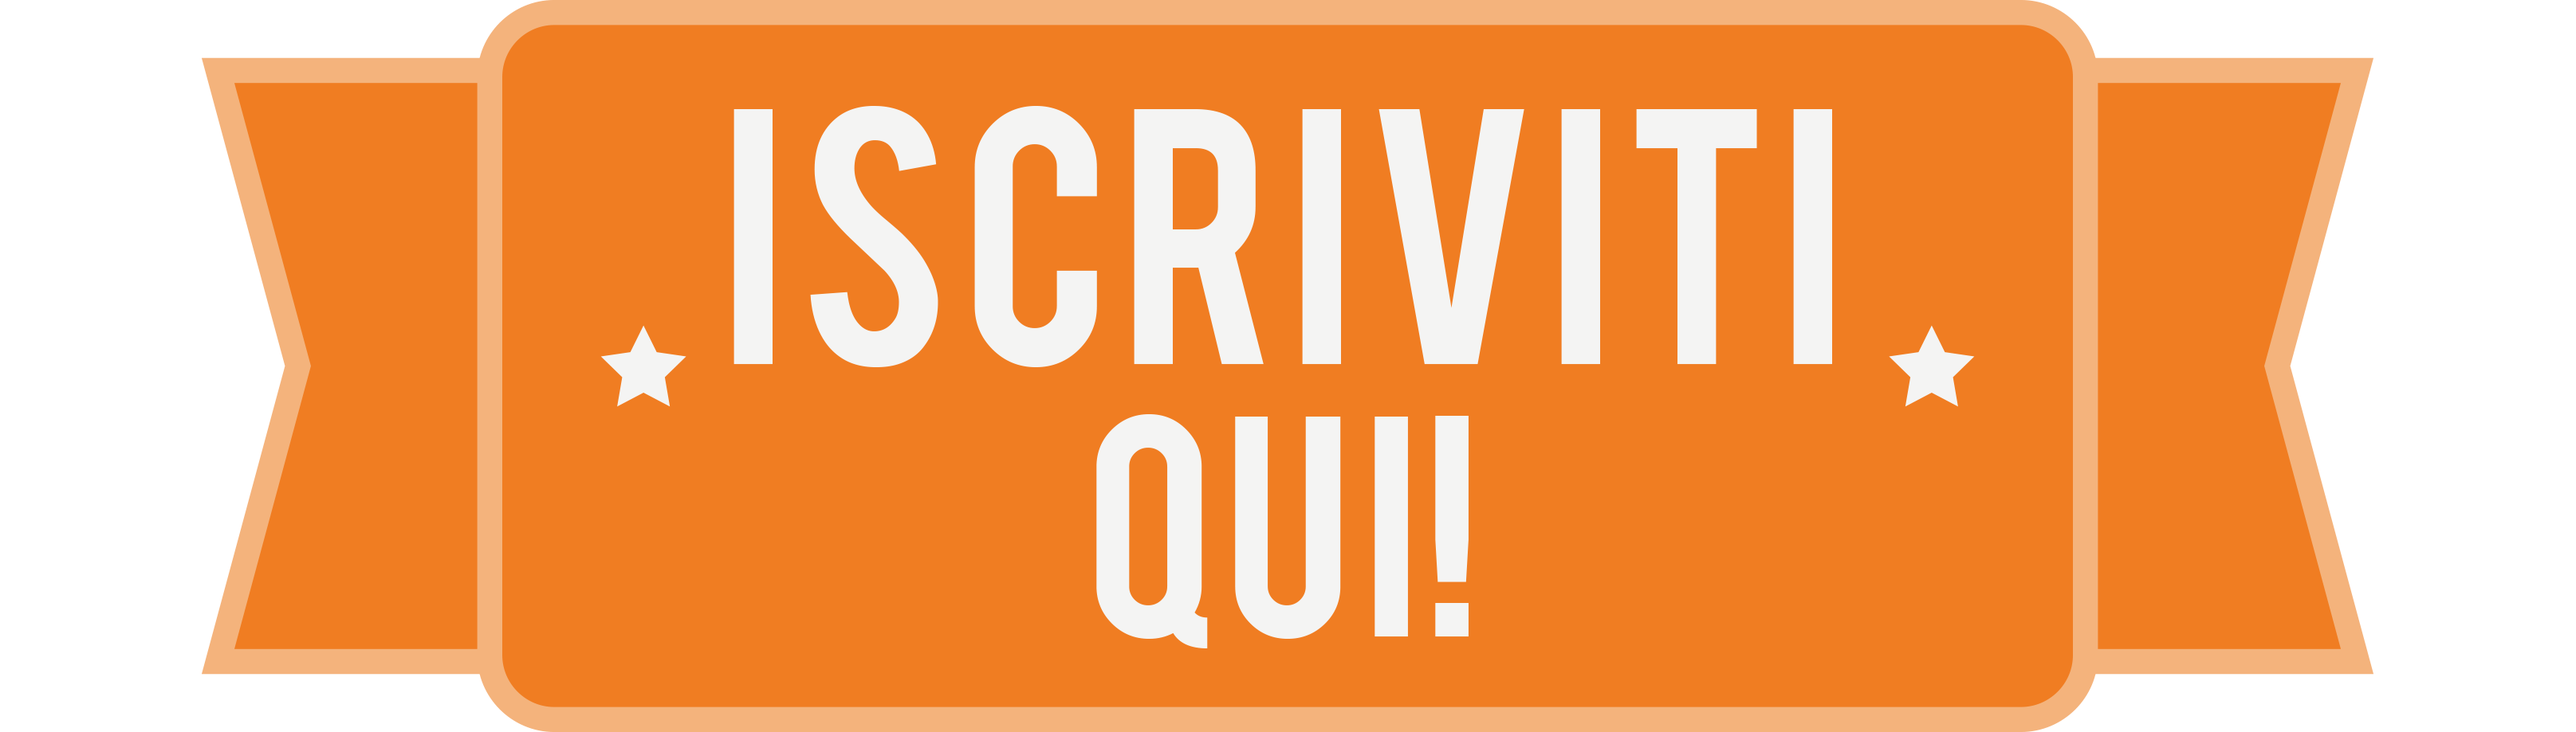
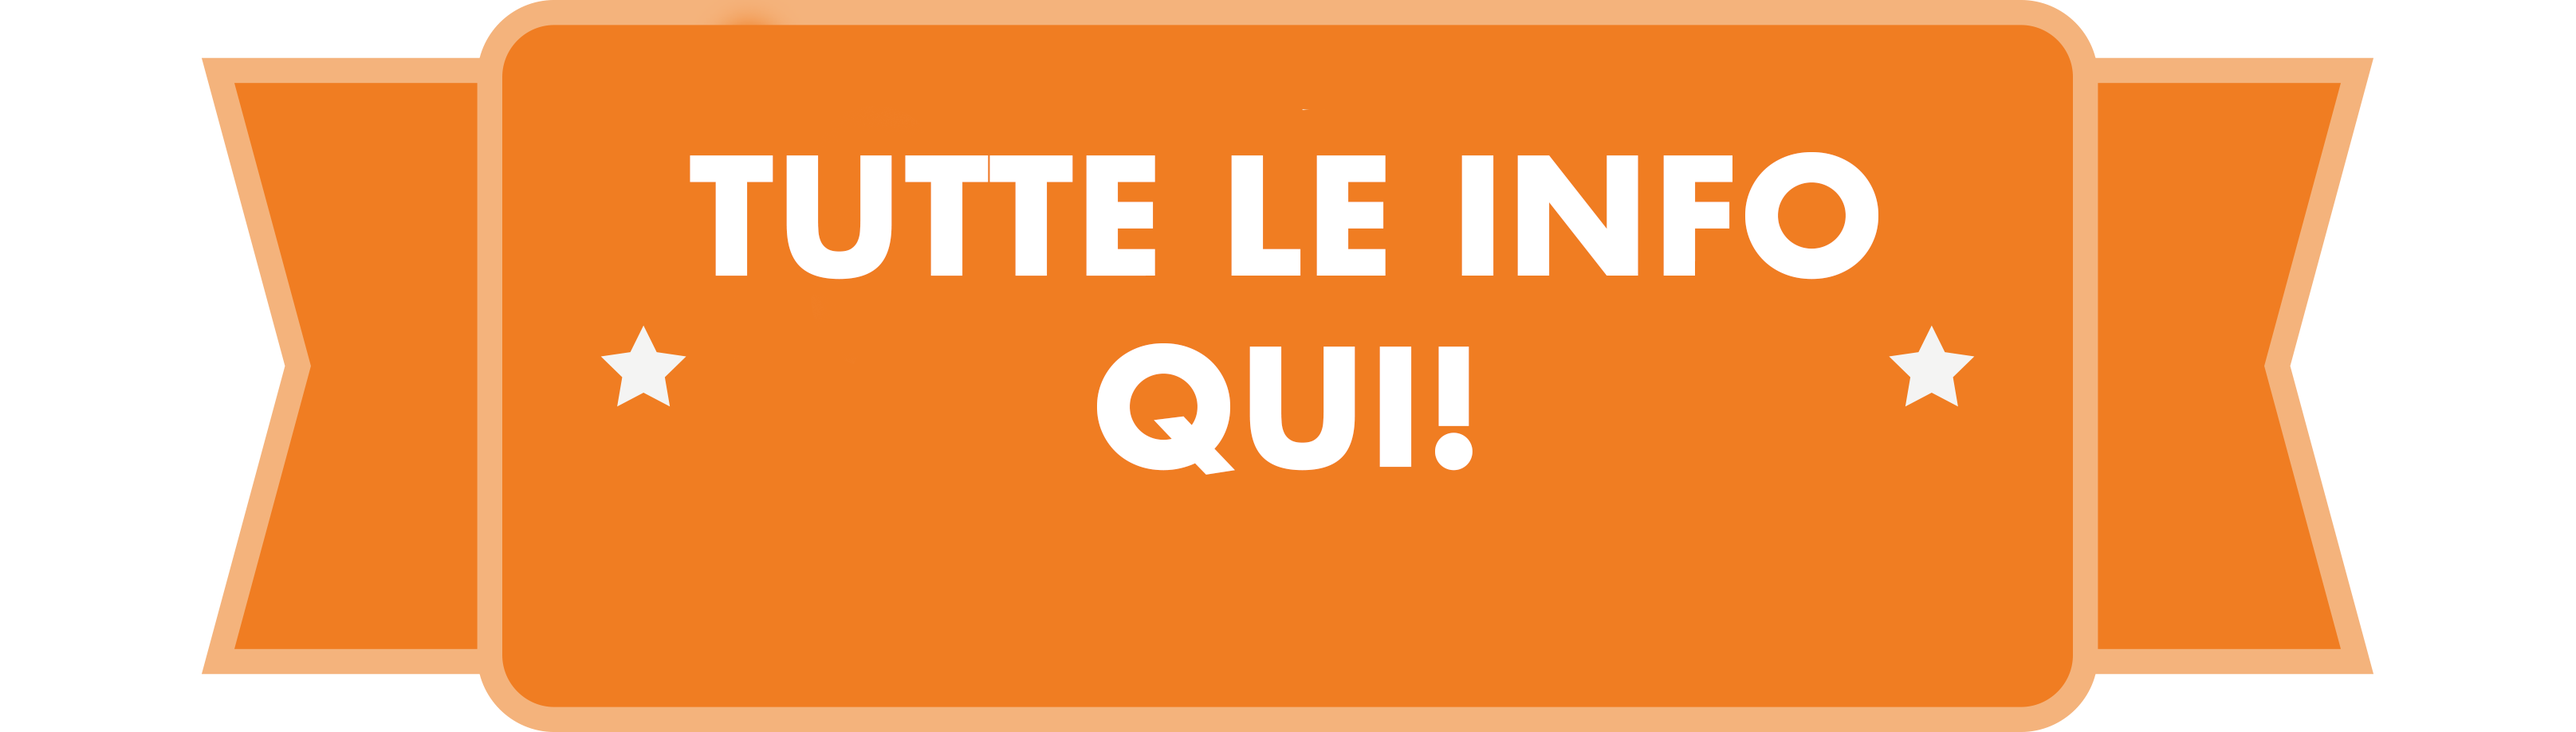
FIX ORDER

Changed region(s): [[0.2476, 0.1219, 0.7428, 0.8836]]

diff --git a/_site/sample/MontiCar.html b/_site/sample/MontiCar.html
@@ -93,9 +93,9 @@
   <span class="post-date">
     Written on
     
-    
-    th,
-    
+    December
+    11th,
+    2017
     by
     
       Pier
@@ -109,28 +109,16 @@
   
 
   <article>
-    <p><a href="http://bit.ly/2HaURjy"><img src="/assets/img/badge.png" alt="eccoci" class="img-responsive" /></a></p>
-
-<p><br /></p>
-
-<p>Prossima edizione del laboratorio MontiLab, pianificata tra febbraio e maggio 2018!<br /><br /></p>
-
-<h1 id="obiettivo-attivare-una-piattaforma-di-carpooling-interna-al-liceo">Obiettivo: attivare una PIATTAFORMA di <a href="https://it.wikipedia.org/wiki/Car_pooling">CARPOOLING</a> interna al Liceo:</h1>
-<p><br /></p>
-<iframe src="https://player.vimeo.com/video/166937334" width="640" height="360" frameborder="0" webkitallowfullscreen="" mozallowfullscreen="" allowfullscreen=""></iframe>
-<p><br />
-Il concept iniziale arriva dall’<a href="http://montilab.techlab.tl/sample/Montilab-hackathon.html">edizione del 2016</a> del Montilab:<br />
-La rete di passaggi per gli studenti che ti cambia la mattinata. Più sorrisi e più parcheggi, meno musi lunghi e inquinamenti!<br />
-<a href="/assets/img/RelazioneMONTICAR.pdf">[relazione]</a></p>
+    <p><a target="_blank" href="https://monticar749304498.wordpress.com"><img src="/assets/img/badge.png" alt="eccoci" class="img-responsive" /></a></p>
 
   </article>
 
   <div class="post-share">
     <div class="post-date">Feel free to share!</div>
     <div class="sharing-icons">
-      <a href="https://twitter.com/intent/tweet?text=2018<br>MontiCar&amp;url=/2017-12-11-MontiCar.html&amp;via=PierluisVona" target="_blank"><i class="fa fa-twitter" aria-hidden="true"></i></a>
-      <a href="https://www.facebook.com/sharer/sharer.php?u=/2017-12-11-MontiCar.html&amp;title=2018<br>MontiCar" target="_blank"><i class="fa fa-facebook" aria-hidden="true"></i></a>
-      <a href="https://plus.google.com/share?url=/2017-12-11-MontiCar.html" target="_blank"><i class="fa fa-google-plus" aria-hidden="true"></i></a>
+      <a href="https://twitter.com/intent/tweet?text=2018<br>MontiCar&amp;url=/sample/MontiCar.html&amp;via=PierluisVona" target="_blank"><i class="fa fa-twitter" aria-hidden="true"></i></a>
+      <a href="https://www.facebook.com/sharer/sharer.php?u=/sample/MontiCar.html&amp;title=2018<br>MontiCar" target="_blank"><i class="fa fa-facebook" aria-hidden="true"></i></a>
+      <a href="https://plus.google.com/share?url=/sample/MontiCar.html" target="_blank"><i class="fa fa-google-plus" aria-hidden="true"></i></a>
     </div>
   </div>
 
@@ -158,20 +146,6 @@ La rete di passaggi per gli studenti che ti cambia la mattinata. Più sorrisi e
           
         
           
-            <li>
-              <h3>
-                <a href="/documentation/Montessorilab.html">
-                  <div class="related-thumbnail">
-                    <img src="http://localhost:4000/assets/img/montessori-1.jpg">
-                  </div>
-                  <div class="related-title">
-                    2017<br>MONTESSORI LAB
-                  </div>
-                  <!--<small>September 28, 2017</small>-->
-                </a>
-              </h3>
-            </li>
-            
           
         
       

diff --git a/_site/sample/Montilab-Bookcrossing.html b/_site/sample/Montilab-Bookcrossing.html
@@ -196,14 +196,14 @@ Così nell’arco di tempo di un mese il progetto pian piano ha cominciato a pre
           
             <li>
               <h3>
-                <a href="/documentation/Montessorilab.html">
+                <a href="/sample/MontiCar.html">
                   <div class="related-thumbnail">
-                    <img src="http://localhost:4000/assets/img/montessori-1.jpg">
+                    <img src="http://localhost:4000/assets/img/monticarwip.jpg">
                   </div>
                   <div class="related-title">
-                    2017<br>MONTESSORI LAB
+                    2018<br>MontiCar
                   </div>
-                  <!--<small>September 28, 2017</small>-->
+                  <!--<small>December 11, 2017</small>-->
                 </a>
               </h3>
             </li>

diff --git a/_site/sample/Montilab-hackathon.html b/_site/sample/Montilab-hackathon.html
@@ -190,14 +190,14 @@ Una dispensa personalizzabile per ridurre l’ingombro e il peso dei libri!
           
             <li>
               <h3>
-                <a href="/documentation/Montessorilab.html">
+                <a href="/sample/MontiCar.html">
                   <div class="related-thumbnail">
-                    <img src="http://localhost:4000/assets/img/montessori-1.jpg">
+                    <img src="http://localhost:4000/assets/img/monticarwip.jpg">
                   </div>
                   <div class="related-title">
-                    2017<br>MONTESSORI LAB
+                    2018<br>MontiCar
                   </div>
-                  <!--<small>September 28, 2017</small>-->
+                  <!--<small>December 11, 2017</small>-->
                 </a>
               </h3>
             </li>

diff --git a/_site/index.html b/_site/index.html
@@ -101,13 +101,6 @@
 
 </div>
 
-<article>
-  <a href="https://monticar749304498.wordpress.com" target="_blank" style="text-decoration: none">
-    <div class="featured-posts" style="background-image:url(/assets/img/monticarwip.jpg)">
- <div class="texto">2018<br>MontiCar</div>
-    </div>
-  </a>
-</article>
 
 
 
@@ -115,6 +108,16 @@
   <a href="/documentation/Monticiak.html" style="text-decoration: none">
     <div class="featured-posts" style="background-image:url(/assets/img/monticiak.jpg)">
  <div class="texto">2019<br> MONTICIAK</div>
+    </div>
+  </a>
+</article>
+
+
+
+<article>
+  <a href="/sample/MontiCar.html" style="text-decoration: none">
+    <div class="featured-posts" style="background-image:url(/assets/img/monticarwip.jpg)">
+ <div class="texto">2018<br>MontiCar</div>
     </div>
   </a>
 </article>

diff --git a/_site/documentation/Monticiak.html b/_site/documentation/Monticiak.html
@@ -195,6 +195,20 @@ Questo è anche stato favorito dai buoni rapporti creatisi tra i vari componenti
           
         
           
+            <li>
+              <h3>
+                <a href="/sample/MontiCar.html">
+                  <div class="related-thumbnail">
+                    <img src="http://localhost:4000/assets/img/monticarwip.jpg">
+                  </div>
+                  <div class="related-title">
+                    2018<br>MontiCar
+                  </div>
+                  <!--<small>December 11, 2017</small>-->
+                </a>
+              </h3>
+            </li>
+            
           
         
       

diff --git a/_site/documentation/Montessorilab.html b/_site/documentation/Montessorilab.html
@@ -212,6 +212,20 @@ Ecco a voi il report che abbiamo prodotto!</p>
           
         
           
+            <li>
+              <h3>
+                <a href="/sample/MontiCar.html">
+                  <div class="related-thumbnail">
+                    <img src="http://localhost:4000/assets/img/monticarwip.jpg">
+                  </div>
+                  <div class="related-title">
+                    2018<br>MontiCar
+                  </div>
+                  <!--<small>December 11, 2017</small>-->
+                </a>
+              </h3>
+            </li>
+            
           
         
       

diff --git a/_site/documentation/Montilab-green-edition.html b/_site/documentation/Montilab-green-edition.html
@@ -174,6 +174,20 @@
           
         
           
+            <li>
+              <h3>
+                <a href="/sample/MontiCar.html">
+                  <div class="related-thumbnail">
+                    <img src="http://localhost:4000/assets/img/monticarwip.jpg">
+                  </div>
+                  <div class="related-title">
+                    2018<br>MontiCar
+                  </div>
+                  <!--<small>December 11, 2017</small>-->
+                </a>
+              </h3>
+            </li>
+            
           
         
       

diff --git a/_layouts/home.html b/_layouts/home.html
@@ -20,13 +20,6 @@ title: Home
 
 </div>
 
-<article>
-  <a href="https://monticar749304498.wordpress.com" target="_blank" style="text-decoration: none">
-    <div class="featured-posts" style="background-image:url({{ site.github.url }}/assets/img/monticarwip.jpg)">
- <div class="texto">2018<br>MontiCar</div>
-    </div>
-  </a>
-</article>
 
 {% for post in paginator.posts %}
 

diff --git a/_posts/2017-12-11-MontiCar.md b/_posts/2017-12-11-MontiCar.md
@@ -1,0 +1,11 @@
+---
+layout: post
+title: "2018<br>MontiCar"
+author: "Pier"
+categories: sample
+tags: [sample]
+image:
+  feature: monticarwip.jpg
+---
+
+<a target="_blank" href="https://monticar749304498.wordpress.com">![eccoci]({{ site.github.url }}/assets/img/badge.png){:class="img-responsive"}</a>
